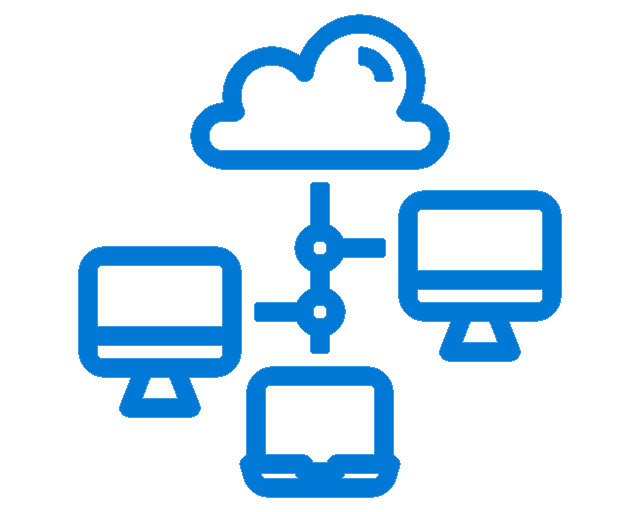
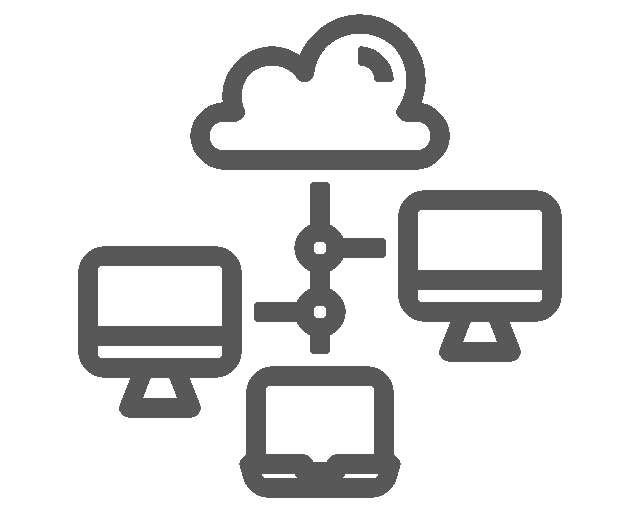
Add files via upload

Changed region(s): [[0.125, 0.0312, 0.875, 1.0]]

diff --git a/index.html b/index.html
@@ -55,7 +55,7 @@
             <div class="col-md-8 order-md-2 order-1">
                 <h1 class="mb-3">~ A propos ~</h1>
                 <p>Actuellement étudiant en première année de Bachelor Universitaire de Technologie en Réseaux et Télécommunications à l'IUT Nancy Brabois. Passionné par les technologies émergentes, j'ai développé des intérêts variés, notamment dans l'artisanat et l'innovation. Doté d'un tempérament à la fois calme et productif, je m'investis pleinement dans mes activités personnelles et professionnelles.</p>
-                <a style="margin-bottom: 40px;" class="button" href="https://drive.google.com/file/d/1COjExaribmkuDPs_3nyj5HamvoiOB3aZ/view">
+                <a style="margin-bottom: 40px;" class="button text-secondary" href="https://drive.google.com/file/d/1COjExaribmkuDPs_3nyj5HamvoiOB3aZ/view">
                     <span class="button__text">Mon CV</span>
                     <span class="button__icon"><svg xmlns="http://www.w3.org/2000/svg" viewBox="0 0 35 35" id="bdd05811-e15d-428c-bb53-8661459f9307" data-name="Layer 2" class="svg"><path d="M17.5,22.131a1.249,1.249,0,0,1-1.25-1.25V2.187a1.25,1.25,0,0,1,2.5,0V20.881A1.25,1.25,0,0,1,17.5,22.131Z"></path><path d="M17.5,22.693a3.189,3.189,0,0,1-2.262-.936L8.487,15.006a1.249,1.249,0,0,1,1.767-1.767l6.751,6.751a.7.7,0,0,0,.99,0l6.751-6.751a1.25,1.25,0,0,1,1.768,1.767l-6.752,6.751A3.191,3.191,0,0,1,17.5,22.693Z"></path><path d="M31.436,34.063H3.564A3.318,3.318,0,0,1,.25,30.749V22.011a1.25,1.25,0,0,1,2.5,0v8.738a.815.815,0,0,0,.814.814H31.436a.815.815,0,0,0,.814-.814V22.011a1.25,1.25,0,1,1,2.5,0v8.738A3.318,3.318,0,0,1,31.436,34.063Z"></path></svg></span>
                 </a>
@@ -77,7 +77,7 @@
                     <img src="img/programation.png" class="card-img-top p-3" alt="Web" style="height: 200px; object-fit: contain;">
                     <div class="card-body">
                         <h5 class="card-title">Programmation</h5>
-                        <a class="btn btn-outline-primary mb-2" href="https://github.com/stars/lolosk/lists/dev-web">Github</a>
+                        <a class="btn btn-outline-secondary mb-2" href="https://github.com/stars/lolosk/lists/programmation">Github</a>
                         <ul class="list-unstyled mt-2">
                             <li>HTML / CSS / JS</li>
                             <li>Java</li>
@@ -91,7 +91,7 @@
                     <img src="img/sql.png" class="card-img-top p-3" alt="Base de données" style="height: 200px; object-fit: contain;">
                     <div class="card-body">
                         <h5 class="card-title">Base de données</h5>
-                        <a class="btn btn-outline-primary mb-2" href="https://github.com/stars/lolosk/lists/dev-web">Github</a>
+                        <a class="btn btn-outline-secondary mb-2" href="https://github.com/stars/lolosk/lists/base-de-donn%C3%A9e">Github</a>
                         <ul class="list-unstyled mt-2">
                             <li>MySQL</li>
                             <li>PgSQL</li>
@@ -105,7 +105,7 @@
                     <img src="img/reseau.png" class="card-img-top p-3" alt="Programmation" style="height: 200px; object-fit: contain;">
                     <div class="card-body">
                         <h5 class="card-title">Réseaux</h5>
-                        <a class="btn btn-outline-primary mb-2" href="https://github.com/stars/lolosk/lists/dev-web">Github</a>
+                        <a class="btn btn-outline-secondary mb-2" href="https://github.com/stars/lolosk/lists/r%C3%A9seaux">Github</a>
                         <ul class="list-unstyled mt-2">
                             <li>Cisco Packet Tracer</li>
                             <li>Wireshark</li>
@@ -119,7 +119,7 @@
                     <img src="img/autre.png" class="card-img-top p-3" alt="Autres" style="height: 200px; object-fit: contain;">
                     <div class="card-body">
                         <h5 class="card-title">Autres</h5>
-                        <a class="btn btn-outline-primary mb-2" href="https://github.com/stars/lolosk/lists/dev-web">Github</a>
+                        <a class="btn btn-outline-secondary mb-2" href="https://github.com/stars/lolosk/lists/autres-comp%C3%A9tences">Github</a>
                         <ul class="list-unstyled mt-2">
                             <li>Cisco Packet Tracer</li>
                             <li>Matlab</li>
@@ -184,11 +184,11 @@
                 <div class="col-md-6">
                     <h6>Quick Links</h6>
                     <ul class="list-unstyled">
-                        <li><a href="https://drive.google.com/file/d/1COjExaribmkuDPs_3nyj5HamvoiOB3aZ/view">Mon CV</a></li>
-                        <li><a href="#about">A propos</a></li>
-                        <li><a href="#skill">Compétences</a></li>
-                        <li><a href="#diplome">Diplômes</a></li>
-                        <li><a href="#">Accueil</a></li>
+                        <li><a class="text-secondary" href="https://drive.google.com/file/d/1COjExaribmkuDPs_3nyj5HamvoiOB3aZ/view">Mon CV</a></li>
+                        <li><a class="text-secondary" href="#about">A propos</a></li>
+                        <li><a class="text-secondary" href="#skill">Compétences</a></li>
+                        <li><a class="text-secondary" href="#diplome">Diplômes</a></li>
+                        <li><a class="text-secondary" href="#">Accueil</a></li>
                     </ul>
                 </div>
             </div>
@@ -198,9 +198,9 @@
                     <p class="text-muted">Copyright &copy; 2023 Loïs GENAY. All rights reserved.</p>
                 </div>
                 <div class="col-md-6 text-right">
-                    <a href="https://www.linkedin.com/in/loïs-genay" class="fa fa-linkedin"></a>
-                    <a href="https://github.com/Lolosk" class="fa fa-github"></a>
-                    <a href="mailto:contact@loisgenay.com" class="fa fa-envelope"></a>
+                    <a href="https://www.linkedin.com/in/loïs-genay" class="fa fa-linkedin text-secondary"></a>
+                    <a href="https://github.com/Lolosk" class="fa fa-github text-secondary"></a>
+                    <a href="mailto:contact@loisgenay.com" class="fa fa-envelope text-secondary"></a>
                 </div>
             </div>
         </div>
